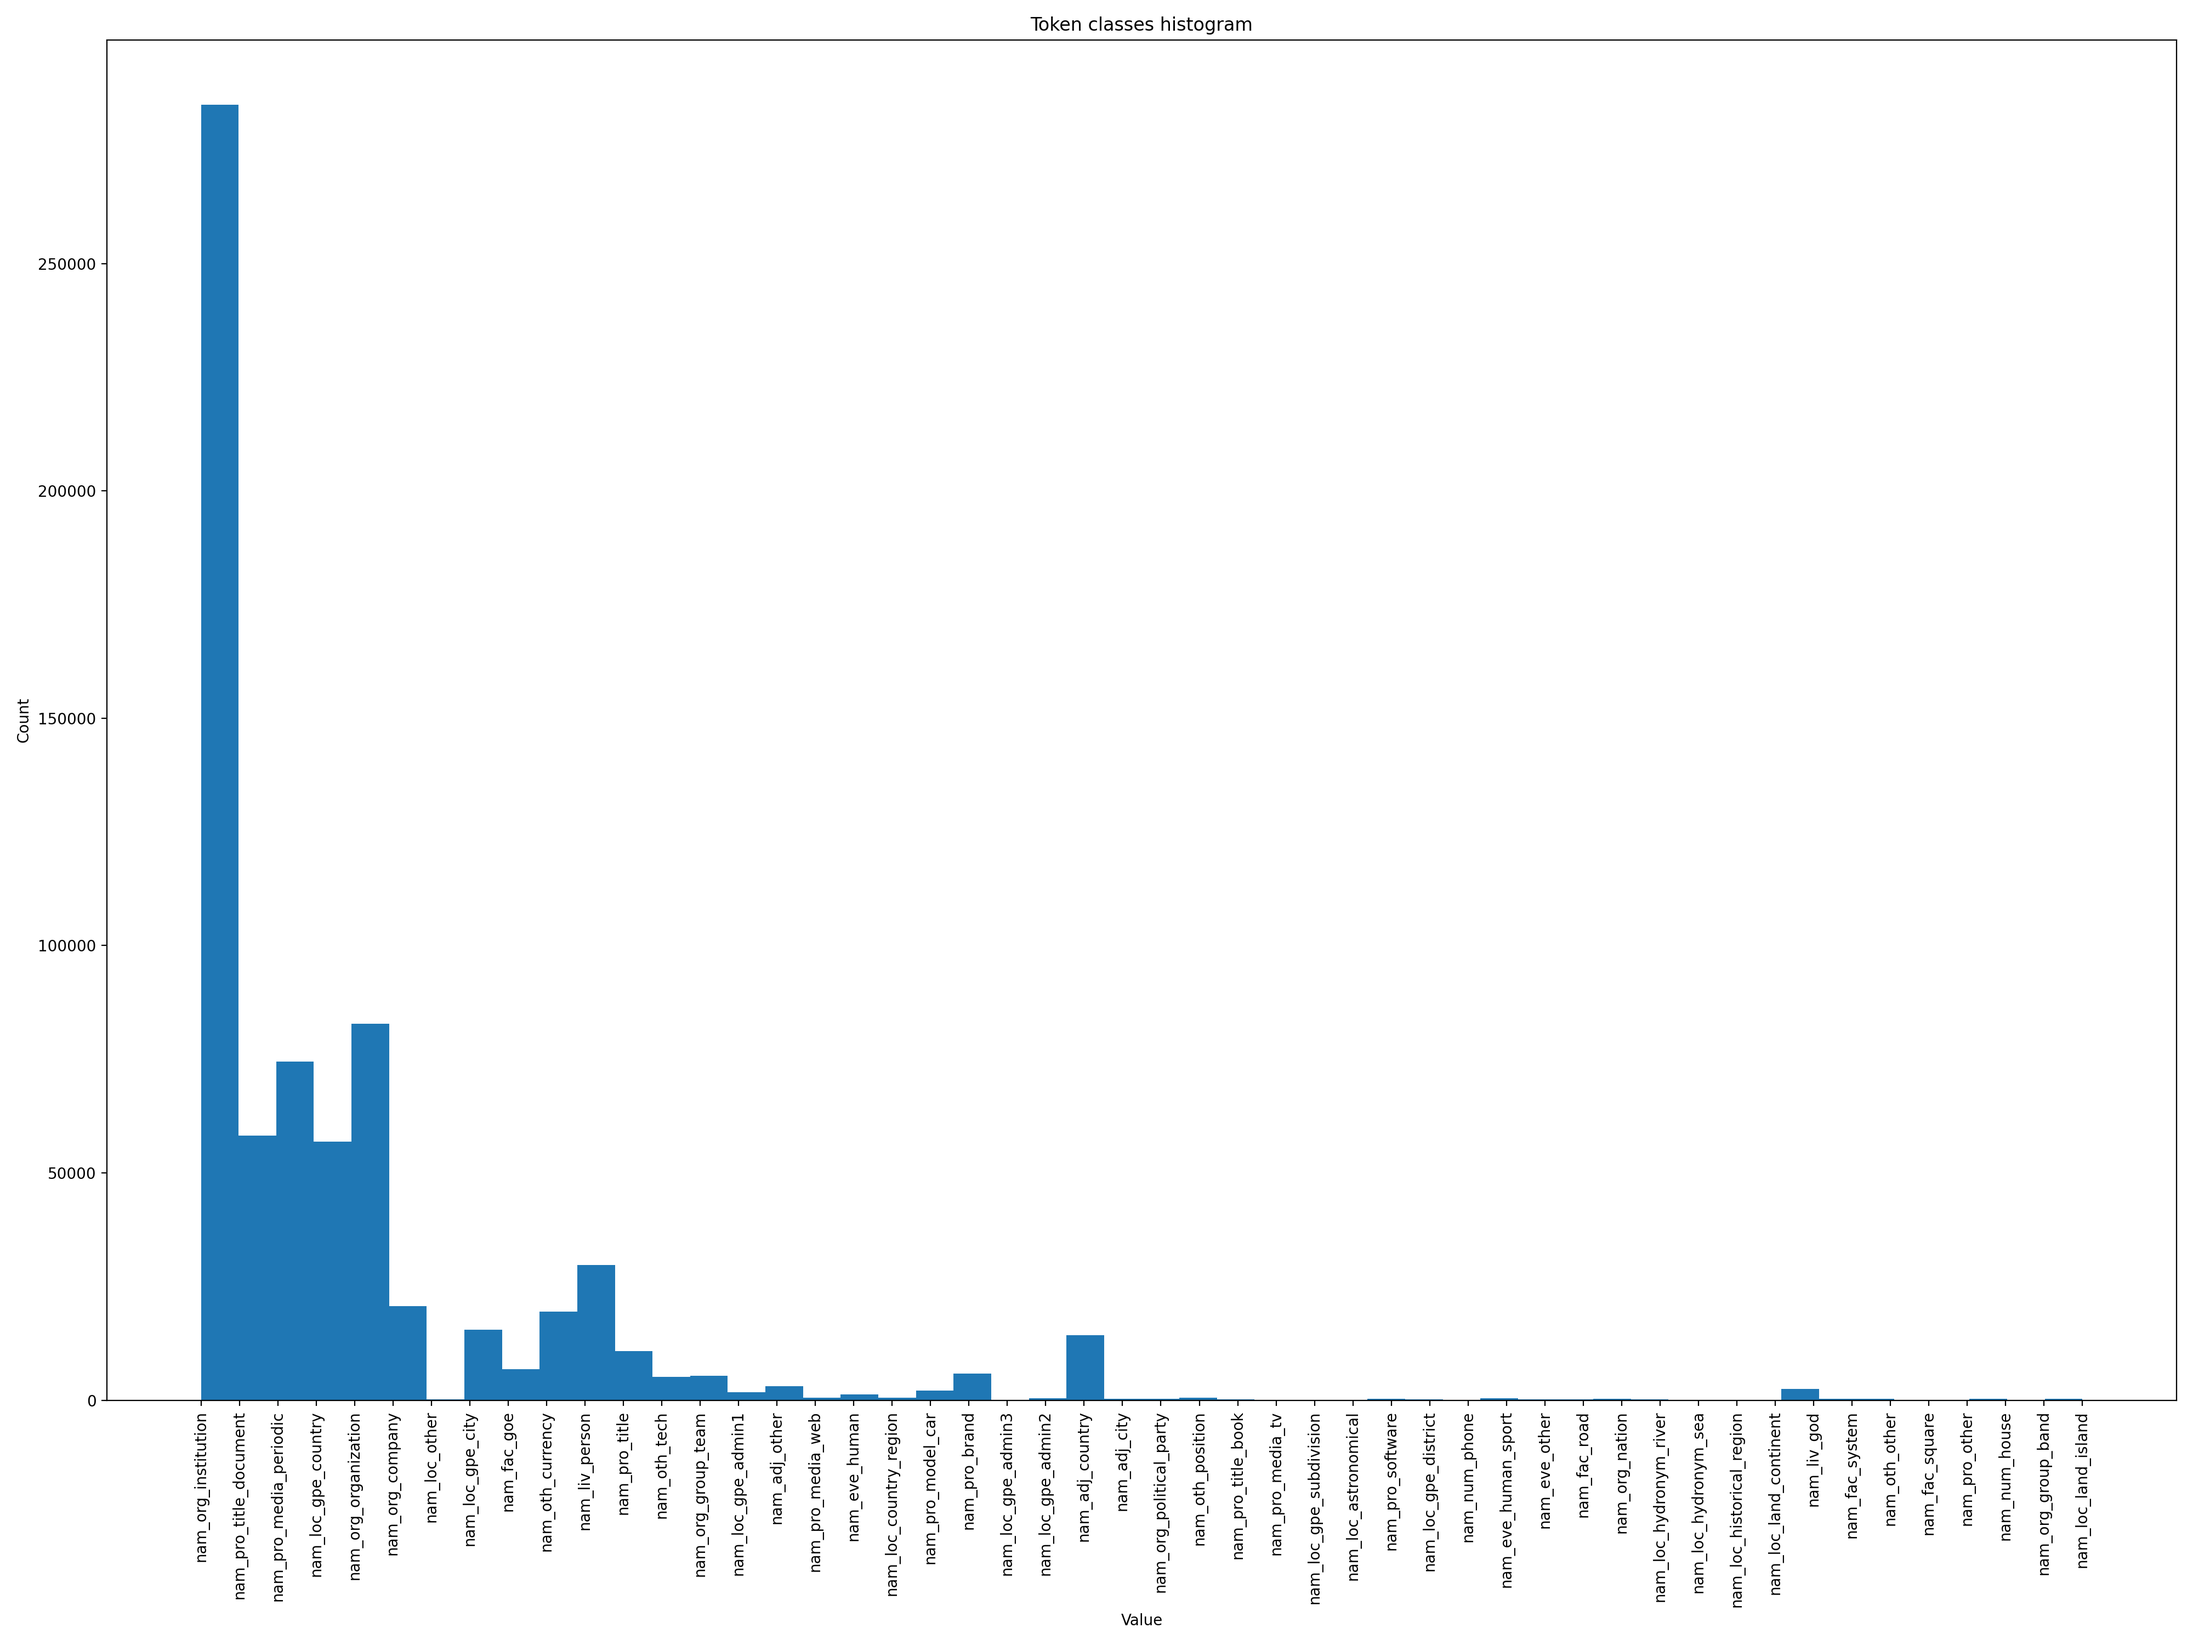
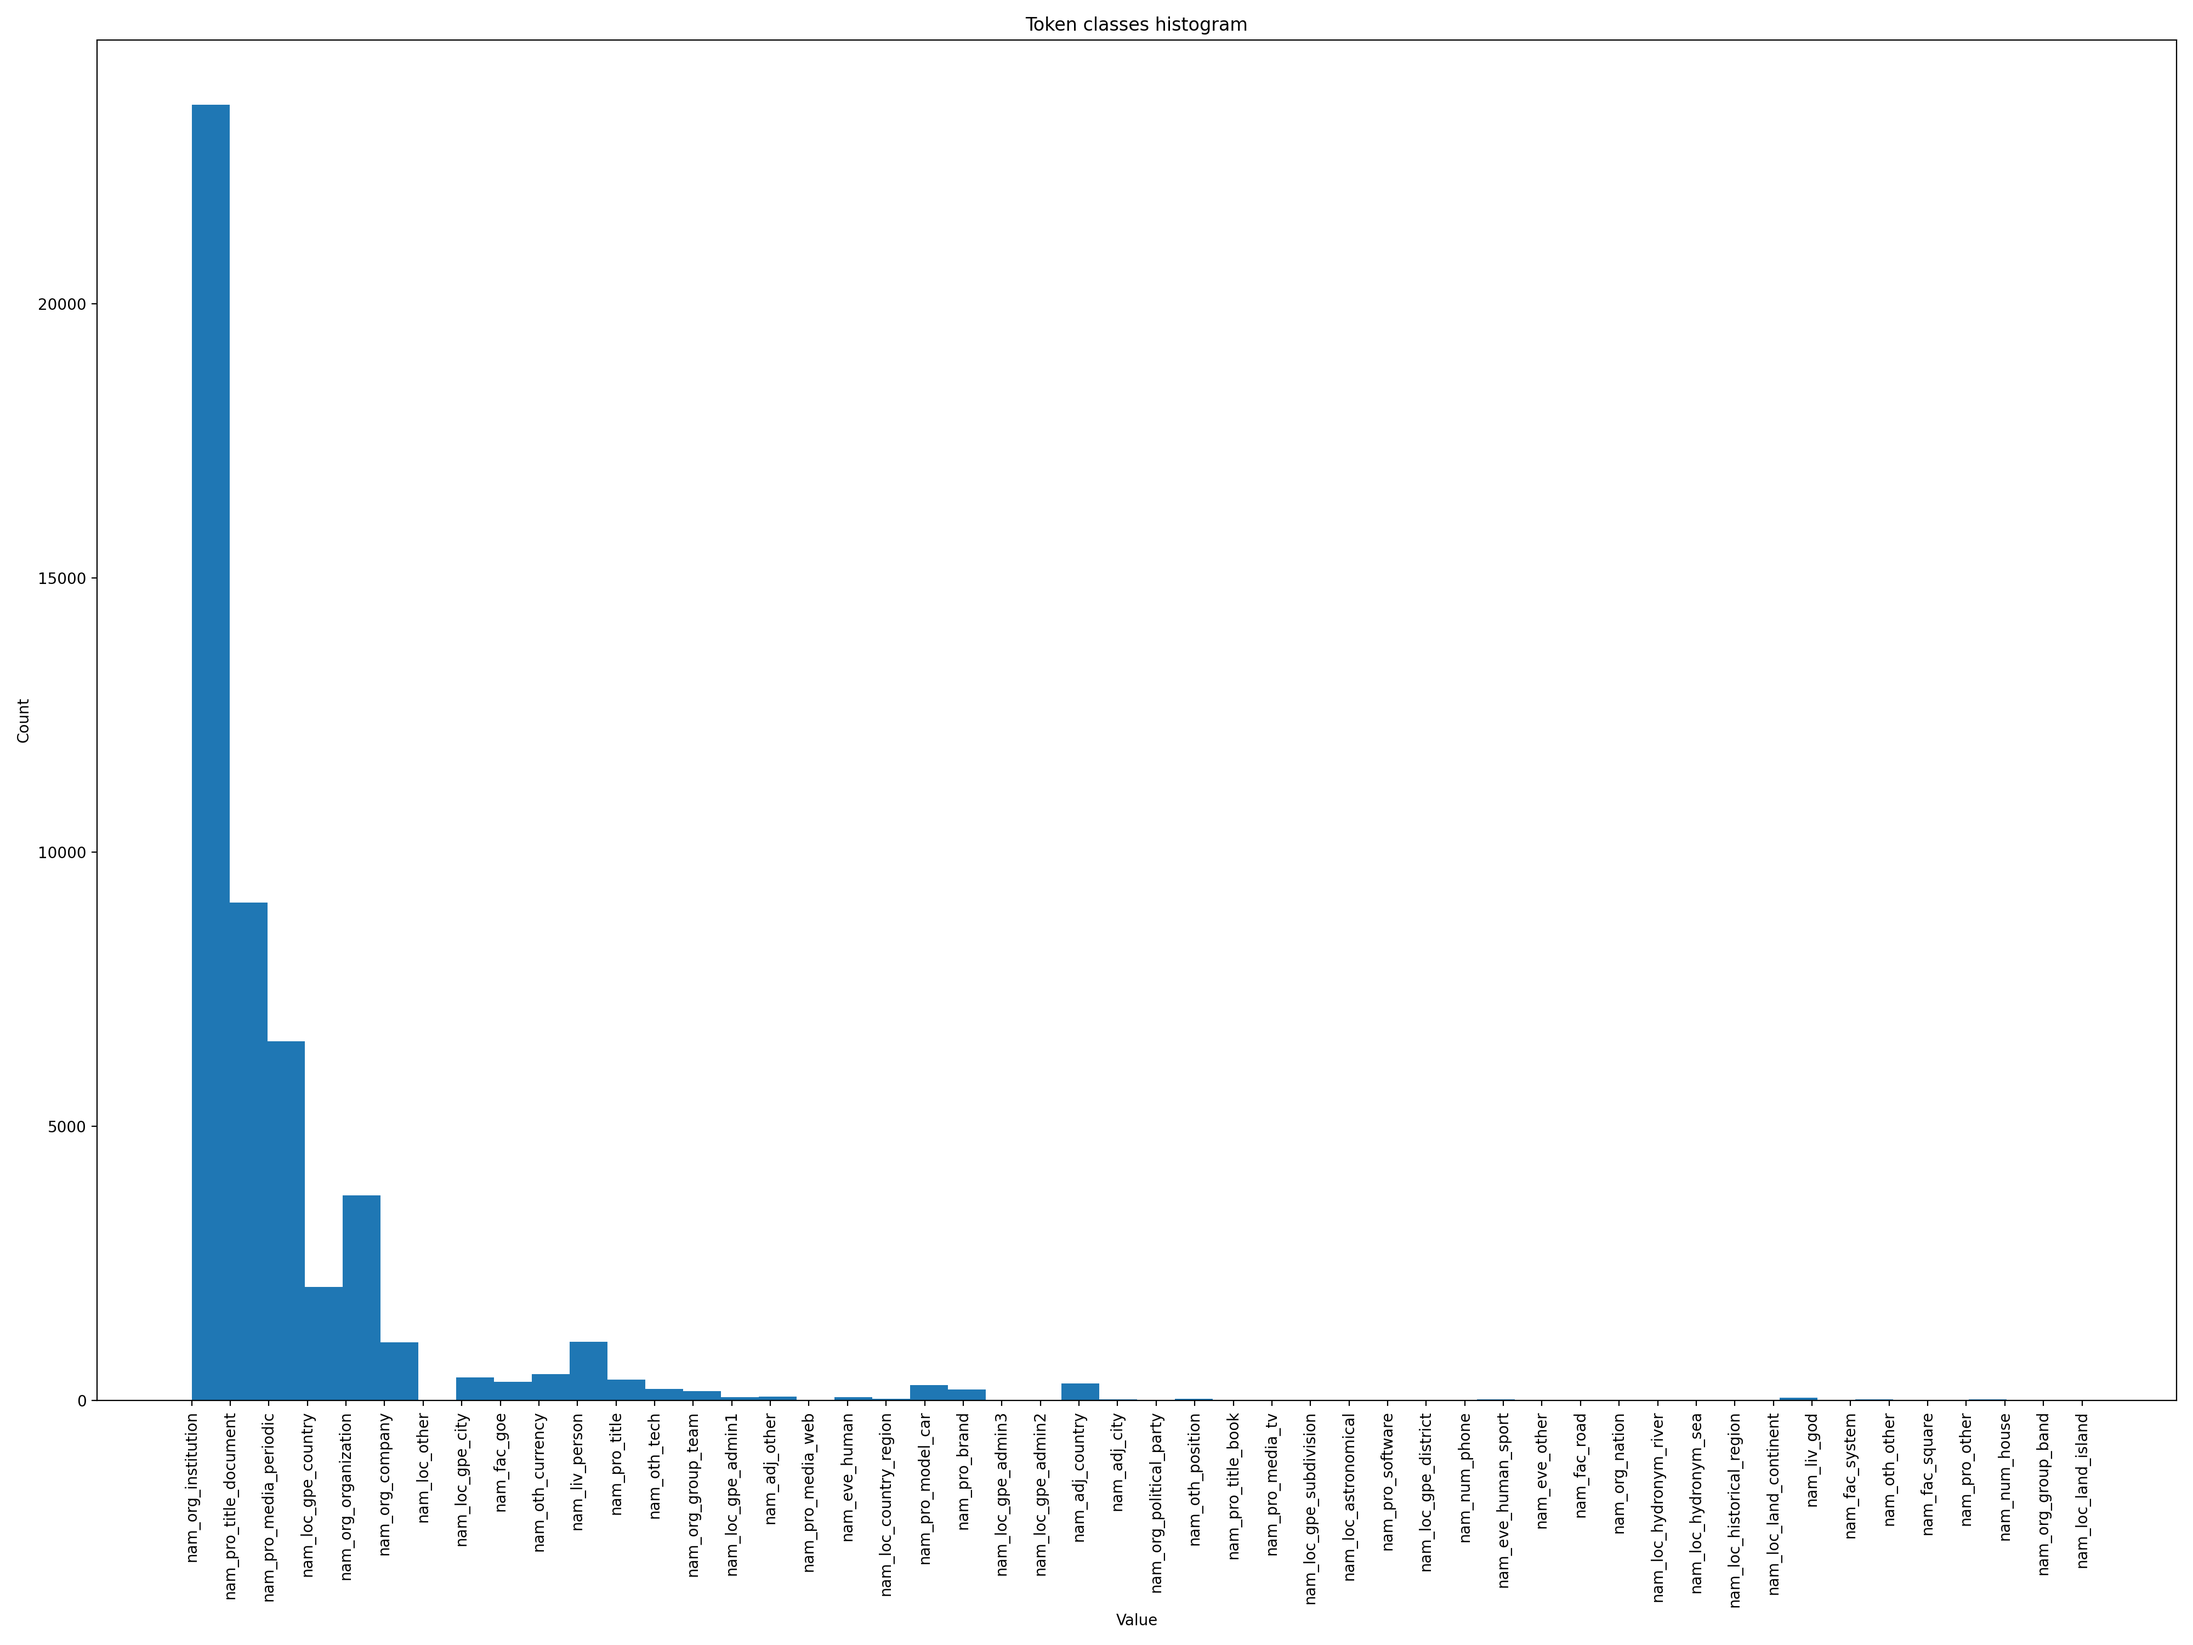
Add print topk

diff --git a/7_ner/main.py b/7_ner/main.py
@@ -220,14 +220,48 @@ class NerClient:
             text = f.read()
             root = ET.fromstring(text)
             classes = []
-            for s in root.findall(".//*/ann"):
-                # sentence = []
-                # for r in s.findall("tok"):
-                #     orth = str(r.find("orth").text)
-                #     lex = r.find("lex")
-                #     base = str(lex.find("base").text).lower()
+
+            # for s in root.findall(".//*/ann"):
+            #     classes.append(s.attrib["chan"])
+
+            for token in root.findall(".//*/tok"):
+                entity = defaultdict(lambda: [])
+                #    <tok>
+                #     <orth>Minister</orth>
+                #     <lex disamb="1"><base>minister</base><ctag>subst:sg:nom:m1</ctag></lex>
+                #     <ann chan="nam_org_institution" head="1">1</ann>
+                #    </tok>
+                #    <tok>
+                #     <orth>Finansów</orth>
+                #     <lex disamb="1"><base>finanse</base><ctag>subst:pl:gen:n</ctag></lex>
+                #     <ann chan="nam_org_institution">1</ann>
+                #    </tok>
+                #    <ns/>
+                #    <tok>
+                #     <orth>,</orth>
+                #     <lex disamb="1"><base>,</base><ctag>interp</ctag></lex>
+                #     <ann chan="nam_org_institution">0</ann>
+                #    </tok>
+                orth = str(token.find("orth").text)
+                lex = token.find("lex")
+                base = str(lex.find("base").text).lower()
+
+                for ann in token.findall("ann"):
+                    chan = ann.attrib["chan"]
+                    value = int(ann.text)
+
+                    if value == 0:
+                        if len(entity[chan]) > 0:
+                            classes.append((chan, entity[chan]))
+                            entity[chan] = []
+                        continue
+
+                    entity[chan].append(orth)
+
+                for chan, values in entity.items():
+                    if len(values) > 0:
+                        classes.append((chan, " ".join(entity[chan])))
                 # tokens.append(sentence)
-                classes.append(s.attrib["chan"])
             return classes
 
     def get_token_classes(self):
@@ -255,20 +289,67 @@ class NerClient:
             return self.token_classes
 
 
-def plot_histogram(values, bins=50):
-    def do_plot(values, suffix=''):
-        plt.figure(figsize=(20, 15), dpi=200)
-        plt.hist(values, bins=bins)
-        plt.ylabel("Count")
-        plt.xlabel("Value")
-        plt.title("Token classes histogram")
-        plt.xticks(rotation="vertical")
-        plt.tight_layout()
-        plt.savefig(f"hist{suffix}.png")
-        # plt.show()
-    do_plot(values, '1')
-    values = ['_'.join(v.split('_')[:2]) for v in values]
-    do_plot(values, '2')
+class ClassesProcessor:
+    def __init__(self, values: List):
+        self.values = values
+
+    @staticmethod
+    def coarse_grained(classname):
+        return "_".join(classname.split("_")[:2])
+
+    def plot_histogram(self, bins=50):
+        def do_plot(values, suffix=""):
+            plt.figure(figsize=(20, 15), dpi=200)
+            plt.hist(values, bins=bins)
+            plt.ylabel("Count")
+            plt.xlabel("Value")
+            plt.title("Token classes histogram")
+            plt.xticks(rotation="vertical")
+            plt.tight_layout()
+            output = f"hist{suffix}.png"
+            if not os.path.isfile(output):
+                plt.savefig(output)
+            # plt.show()
+
+        values = self.get_classnames()
+        do_plot(values, "1")
+        values = [self.__class__.coarse_grained(v) for v in values]
+        do_plot(values, "2")
+
+    @staticmethod
+    def group(values):
+        res = defaultdict(lambda: [])
+        for classname, entity in values:
+            res[classname].append(entity)
+        return res
+
+    def get_classnames(self):
+        return [v for v, _e in self.values]
+
+    def get_coarse_grained(self):
+        return [(self.__class__.coarse_grained(v), e) for v, e in self.values]
+
+    def group_coarse_grained(self):
+        return self.__class__.group(self.get_coarse_grained())
+
+    def count_coarse_grained(self):
+        grouped = self.group_coarse_grained()
+        return {classname: Counter(entities) for classname, entities in grouped.items()}
+
+    def print_top_k_coarse_grained(self, k=10):
+        count_coarse_grained = self.count_coarse_grained()
+        print(f"Top {k} classes:")
+        for classname, counter in count_coarse_grained.items():
+            print(classname)
+            pprint(counter.most_common(k))
+
+    def count_entities(self):
+        return Counter(self.get_coarse_grained())
+
+    def print_top_k_entities(self, k=50):
+        count_entities = self.count_entities()
+        print(f"Top {k} entities:")
+        pprint(count_entities.most_common(k))
 
 
 if __name__ == "__main__":
@@ -293,4 +374,9 @@ if __name__ == "__main__":
     classes = ner_client.get_token_classes()
     print(classes[:50])
 
-    plot_histogram(classes)
+    # plot_histogram([chan for chan, _entity in classes])
+
+    classes_processor = ClassesProcessor(classes)
+    classes_processor.plot_histogram()
+    classes_processor.print_top_k_coarse_grained(10)
+    classes_processor.print_top_k_entities()
